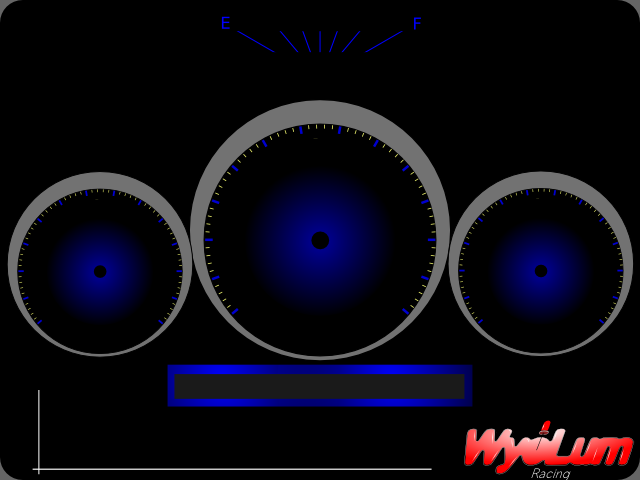
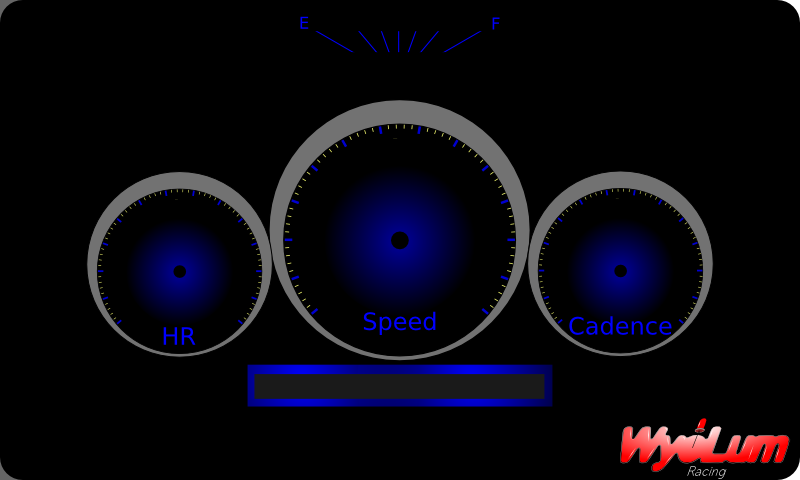
working on not flickering

diff --git a/Dashboard.py b/Dashboard.py
@@ -10,8 +10,9 @@ from numpy import random
 import time
 
 DEG = math.pi / 180.
-W = 800
-H = 600
+WIDTH = 800
+HEIGHT = 480
+
 MAX_HR = 200
 MIN_HR = 50
 UNITS = {'MIN': 60,
@@ -37,37 +38,10 @@ def html2rgb(s):
     bb = int(s[5:7], 16)
     return (rr, gg, bb)
     
-class Dial(pygame.sprite.Sprite):
-    """a speedometer dial"""
-    def __init__(self, center, radius, angle):
-        pygame.sprite.Sprite.__init__(self) #call Sprite initializer
-        self.center = center
-        self.radius = radius
-        self.angle = angle
-        self.image, self.rect = load_image('fist.bmp', -1)
-        self.punching = 0
-
-    def update(self):
-        "move the fist based on the mouse position"
-        pos = pygame.mouse.get_pos()
-        self.rect.midtop = pos
-        if self.punching:
-            self.rect.move_ip(5, 10)
-
-    def punch(self, target):
-        "returns true if the fist collides with the target"
-        if not self.punching:
-            self.punching = 1
-            hitbox = self.rect.inflate(-5, -5)
-            return hitbox.colliderect(target.rect)
-
-    def unpunch(self):
-        "called to pull the fist back"
-        self.punching = 0
-
 fuel = 1000
+
 class Widget:
-    def __init__(self, parent, rect, colorkey=None, fill=(0, 0, 0), alpha=255, name=""):
+    def __init__(self, parent, rect, colorkey=None, fill=(0, 0, 0), alpha=255):
         '''
         rect is where current widget live on parent
         rect[0] -- xleft
@@ -87,12 +61,9 @@ class Widget:
         self.rect = rect
         self.parent = parent
         self.parent.widgets.append(self)
-        self.name = name
+
     def render(self, surf):
         surf.blit(self.surf, (self.rect[0], self.rect[1]))
-        if self.name:
-            loc = self.surf.get_rect().centerx, self.surf.get_rect().height - 20
-            self.add_text(self.name, 24, loc)
         
     def add_text(self, text, fontsize, location=None, color=(0, 0, 255)):
         if self.text_surf is None:
@@ -171,7 +142,7 @@ def getCadence():
     return 90 + 30 * math.cos(time.time() / 7.123 + math.pi/3)
 
 class Progress(Widget):
-    def __init__(self, parent, rect, name, todo_color, done_color, prog=0., *args, **kw):
+    def __init__(self, parent, rect, todo_color, done_color, prog=0., *args, **kw):
         '''
         prog: progress from 0.0 to 1.0
         '''
@@ -179,7 +150,6 @@ class Progress(Widget):
         self.todo_color = todo_color
         self.done_color = done_color
         self.update(prog)
-        self.name = name
         
     def update(self, prog):
         if prog > 1:
@@ -194,10 +164,9 @@ class Progress(Widget):
         self.add_text(percent, 20, (self.rect[2]/2, self.rect[3]/2), (0, 0, 0))
 
 class Gauge(Widget):
-    def __init__(self, parent, center, name, radius, angles, min_max_values, value=None, dial_width=10, inner_radius=30, colorkey=(1, 1, 1), *args, **kw):
+    def __init__(self, parent, center, radius, angles, min_max_values, value=None, dial_width=10, inner_radius=30, colorkey=(1, 1, 1), *args, **kw):
         rect = (center[0] - radius, center[1] - radius, 2 * radius, 2 * radius)
         Widget.__init__(self, parent, rect, colorkey=colorkey, fill=colorkey, *args, **kw)
-        self.name = name
         self.center = center
         self.radius = radius
         self.angles = angles
@@ -272,8 +241,8 @@ class Workout(cevent.CEvent):
         max_hr = max([Zone[z[2]][1] for z in self.intervals])
         min_hr = min([Zone[z[2]][0] for z in self.intervals])
         max_hr = 200
-        self.chart = Chart(self, (40, 418, 390, 50), 0, end, min_hr, max_hr)
-        self.hr_hist = Chart(self, (40, 418, 390, 50), 0, end, min_hr, max_hr, alpha=128, colorkey=(1, 1, 1), fill=(1, 1, 1))
+        self.chart = Chart(self, (40, 418, 570, 50), 0, end, min_hr, max_hr)
+        self.hr_hist = Chart(self, (40, 418, 570, 50), 0, end, min_hr, max_hr, alpha=128, colorkey=(1, 1, 1), fill=(1, 1, 1))
 
         for start, stop, zone in self.intervals:
             lo, hi, color = Zone[zone]
@@ -281,34 +250,34 @@ class Workout(cevent.CEvent):
             self.chart.addbar((color, (start, hi, stop - start, hi - lo)))
 
         ## create widgets.
-        self.progress = Progress(self, (175, 373, 640 - 2 * 175, 25), "TOGO", (0, 255, 255), (0, 0, 255))
-        self.speed = Gauge(self, (320, 240), "", 100, [140, 400], [0, 60])
-        self.speed_zone = Gauge(self, (320, 240), "Speed", 100, [140, 400], [0, 60])
-        self.hr_zones = Gauge(self, (100, 480 - 209), "HR", 90, [140, 400], [min_hr, max_hr], inner_radius=20)
+        self.progress = Progress(self, (255, 373, WIDTH - 2 * 255, 25), (0, 255, 255), (0, 0, 255))
+        self.speed = Gauge(self, (WIDTH / 2, HEIGHT / 2), 100, [140, 400], [0, 60])
+        self.speed_zone = Gauge(self, (WIDTH / 2, 240), 100, [140, 400], [0, 60])
+        self.hr_zones = Gauge(self, (180, HEIGHT - 209), 90, [140, 400], [min_hr, max_hr], inner_radius=20)
         for zone in Zone:
             zone = Zone[zone]
             self.hr_zones.arc(zone[0], zone[1], 80, 3, html2rgb(zone[2]))
-        self.hr_meter = Gauge(self, (100, 480 - 209), "HR", 85, [140, 400], [min_hr, max_hr], inner_radius=20)
-        self.cadence = Gauge(self, (640-100, 480-209), "", 75, [140, 400], [0, 130], inner_radius=20)
-        self.cadence_zone = Gauge(self, (640-100, 480-209), "Cadence", 85, [140, 400], [50, 130], inner_radius=20)
+        self.hr_meter = Gauge(self, (180, HEIGHT - 209), 85, [140, 400], [min_hr, max_hr], inner_radius=20)
+        self.cadence = Gauge(self, (WIDTH-180, HEIGHT-209), 75, [140, 400], [0, 130], inner_radius=20)
+        self.cadence_zone = Gauge(self, (WIDTH-180, HEIGHT-209), 85, [140, 400], [50, 130], inner_radius=20)
         self.cadence_zone.arc(90, 100, 80, 3, (0, 255, 0))
-        self.fuel = Gauge(self, (320, 480-402), 'Fuel', 100, [210, 330], [0, 1000], dial_width=5, inner_radius=0)
+        self.fuel = Gauge(self, (WIDTH / 2, HEIGHT - 402), 100, [210, 330], [0, 1000], dial_width=5, inner_radius=0)
         self.fuel.surf = pygame.Surface((200, 75))
         self.fuel.surf.set_colorkey((1, 1, 1))
         self.fuel.surf.fill((1, 1, 1))
 
-        # self.text = Widget(self, (0, 55, 640, 40), fill=(0, 0, 0))
-        self._display_surf = pygame.display.set_mode((640,480), pygame.HWSURFACE)
+        # self.text = Widget(self, (0, 55, WIDTH, 40), fill=(0, 0, 0))
+        self._display_surf = pygame.display.set_mode((WIDTH,HEIGHT), pygame.HWSURFACE)
         self._running = True
         self._image_surf = pygame.image.load("WyoLum_racing.png").convert()
         self.start = time.time()
         self.interval_start = 0
         self.interval_num = 0
+        self._display_surf.blit(self._image_surf,(0,0))
 
     def on_loop(self):
         global fuel
 
-        self._display_surf.blit(self._image_surf,(0,0))
         
         ## update values
         rect = self._display_surf.get_rect()
@@ -341,19 +310,23 @@ class Workout(cevent.CEvent):
     def on_render(self):
         ## render children
         for wid in self.widgets:
+            # self._display_surf.blit(self._image_surf, wid.rect[:2], (wid.rect))
             wid.render(self._display_surf)
-        
+            # pygame.display.update(wid.rect)
         ## black above and below fuel gauge
-        self._display_surf.fill((0,0,0), (234, 0, 175, 25))
+        # self._display_surf.fill((0,0,0), (WIDTH/2 - 175/2, 0, 175, 30))
         # self._display_surf.fill((0,0,0), (234, 50, 175, 30))
         pygame.display.flip()
-        
     def on_exit(self):
         self._running = False
 
     def on_cleanup(self):
         pygame.quit()
-     
+
+    def on_key_down(self, event):
+        if event.key == K_ESCAPE:
+            self._running = False
+        
     def on_execute(self):
         if self.on_init() == False:
             self._running = False

diff --git a/cevent.py b/cevent.py
@@ -58,8 +58,6 @@ class CEvent:
     def on_joy_ball(self,event):
         pass
     def on_event(self, event):
-        pass
-    def on_event(self, event):
         if event.type == QUIT:
             self.on_exit()
  
